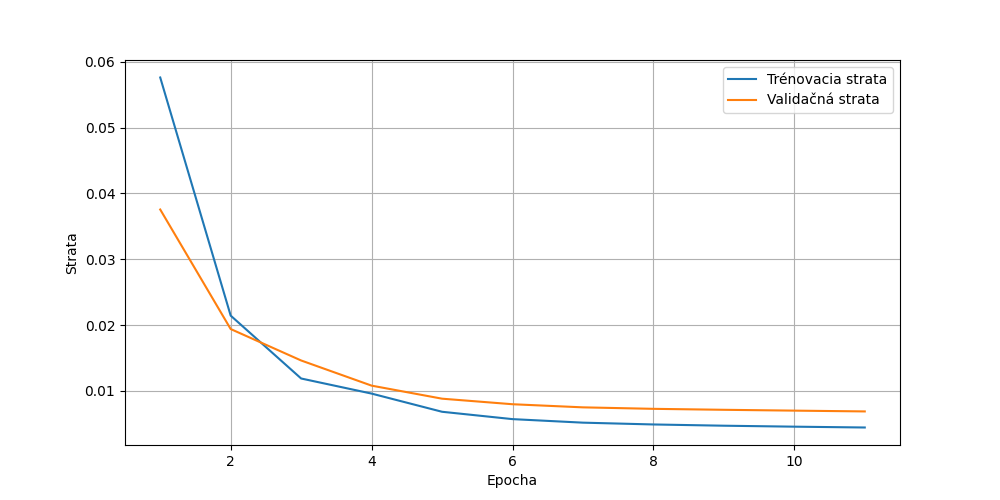
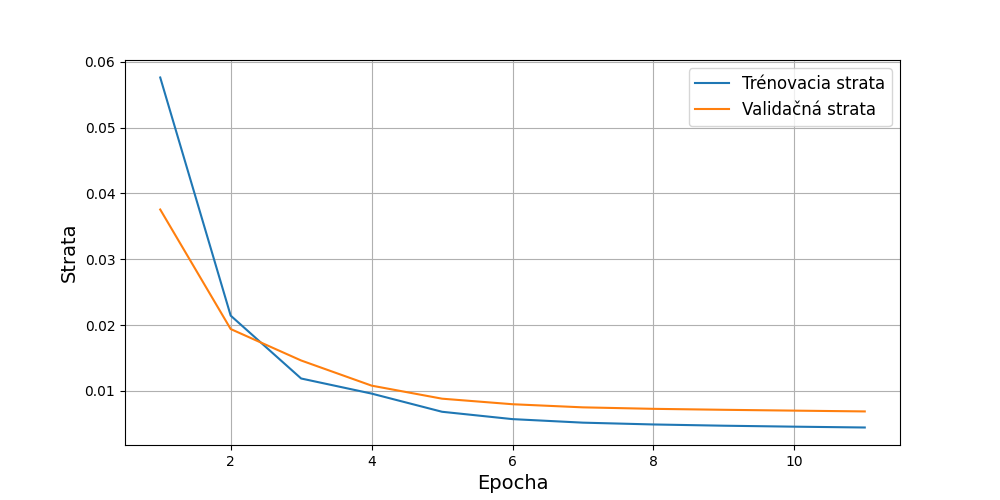
add bigger font for curve

Changed region(s): [[0.682, 0.12, 0.899, 0.24], [0.465, 0.93, 0.558, 0.99], [0.062, 0.45, 0.093, 0.57]]

diff --git a/src/base.py b/src/base.py
@@ -128,8 +128,8 @@ class TrainingStats:
 
         # Name the axis
         LANG = settings.plot_description_language
-        plt.xlabel(LABELS[LANG]["epoch"])
-        plt.ylabel(LABELS[LANG]["loss"])
+        plt.xlabel(LABELS[LANG]["epoch"], fontdict={"fontsize": 14})
+        plt.ylabel(LABELS[LANG]["loss"], fontdict={"fontsize": 14})
 
         # Plot the graph(s)
         plt.plot(self.epochs, self.training_loss, label=LABELS[LANG]["training_loss"])
@@ -138,7 +138,7 @@ class TrainingStats:
         )
 
         # Show the plot
-        plt.legend()
+        plt.legend(fontsize=12)
         plt.grid()
 
         return fig
